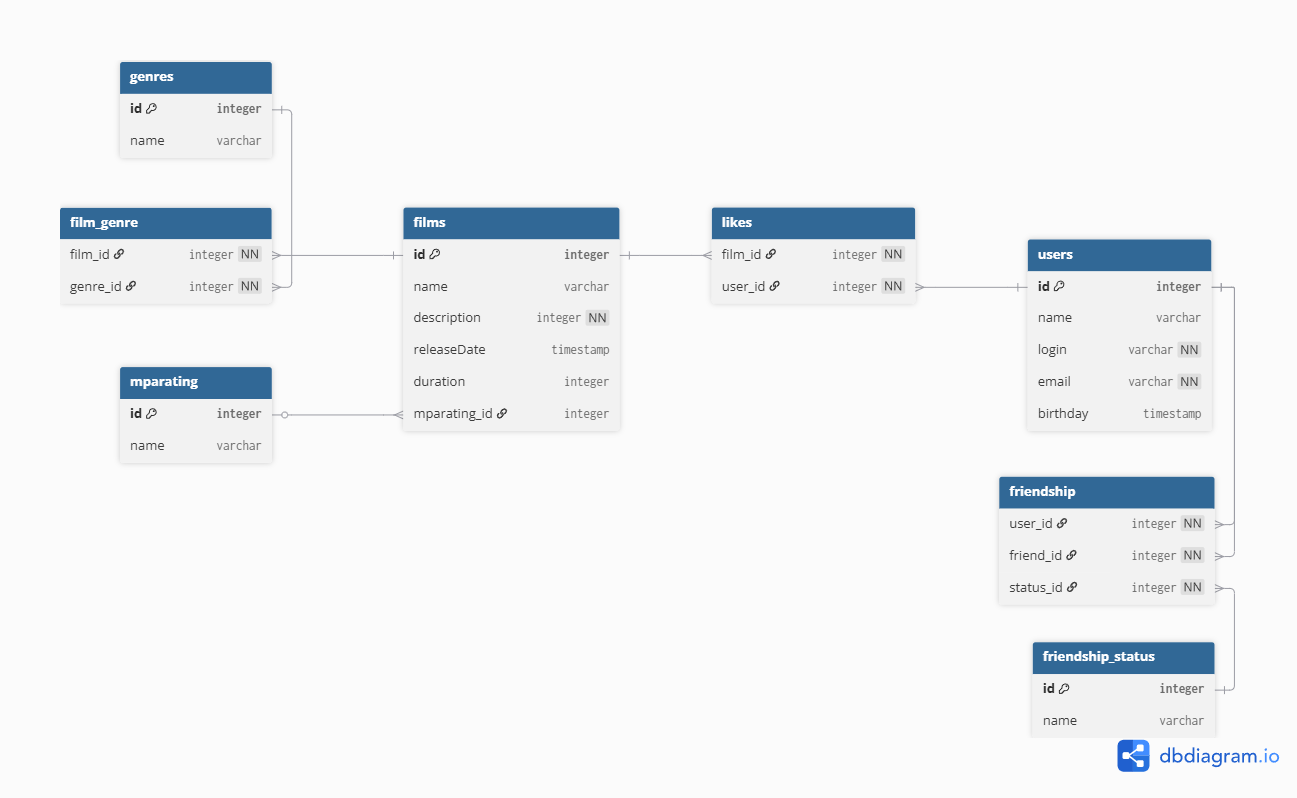
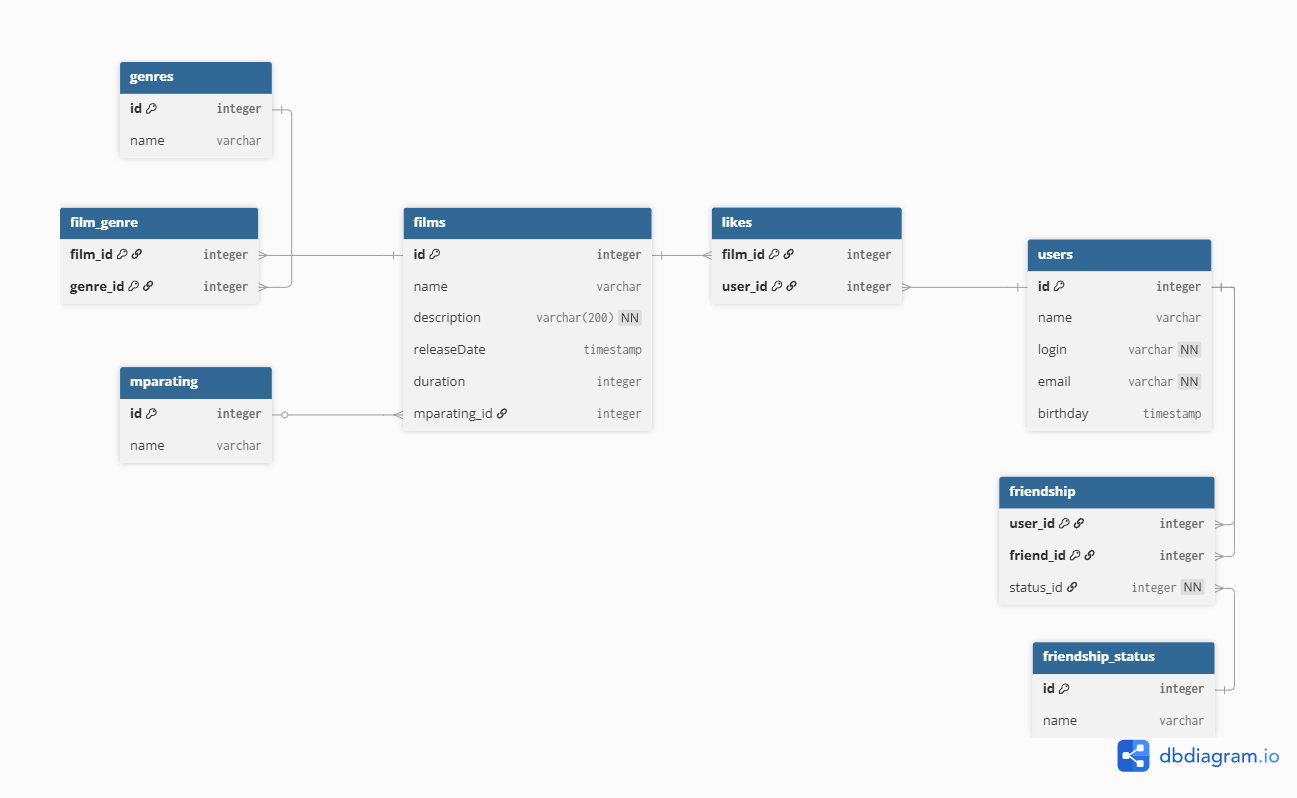
Спринт 12. Промежуточное задание. Правка по замечаниям 1

diff --git a/README.md b/README.md
@@ -30,7 +30,7 @@ SELECT f.id,
        f.description,
        f.release_date,
        f.duration,
-       m.name AS mparating
+       mr.name AS mparating
 FROM films AS f
 INNER JOIN mparating AS mr ON f.mparating_id = mr.id
 WHERE f.id = 1;
@@ -48,7 +48,7 @@ WHERE f.id = 1;
 ```
 SELECT count(DISTINCT user_id) AS count_likes
 FROM films AS f
-INNER JOIN likes AS l ON f.id = fg.film_id
+INNER JOIN likes AS l ON f.id = l.film_id
 WHERE f.id = 1;
 ```
 4. Получение данных по id пользователя
@@ -63,10 +63,10 @@ SELECT uf.login,
        uf.name,
        uf.email,
        uf.birthday,
-       uf.name AS friendship_status
+       fs.name AS friendship_status
 FROM users AS u
 INNER JOIN friendship AS f on f.user_id = u.id
-INNER JOIN friendship_status fs on fd.id = f.status_id
+INNER JOIN friendship_status fs on fs.id = f.status_id
 INNER JOIN users AS uf on f.friend_id = uf.id
 WHERE u.id = 1;
 ```
